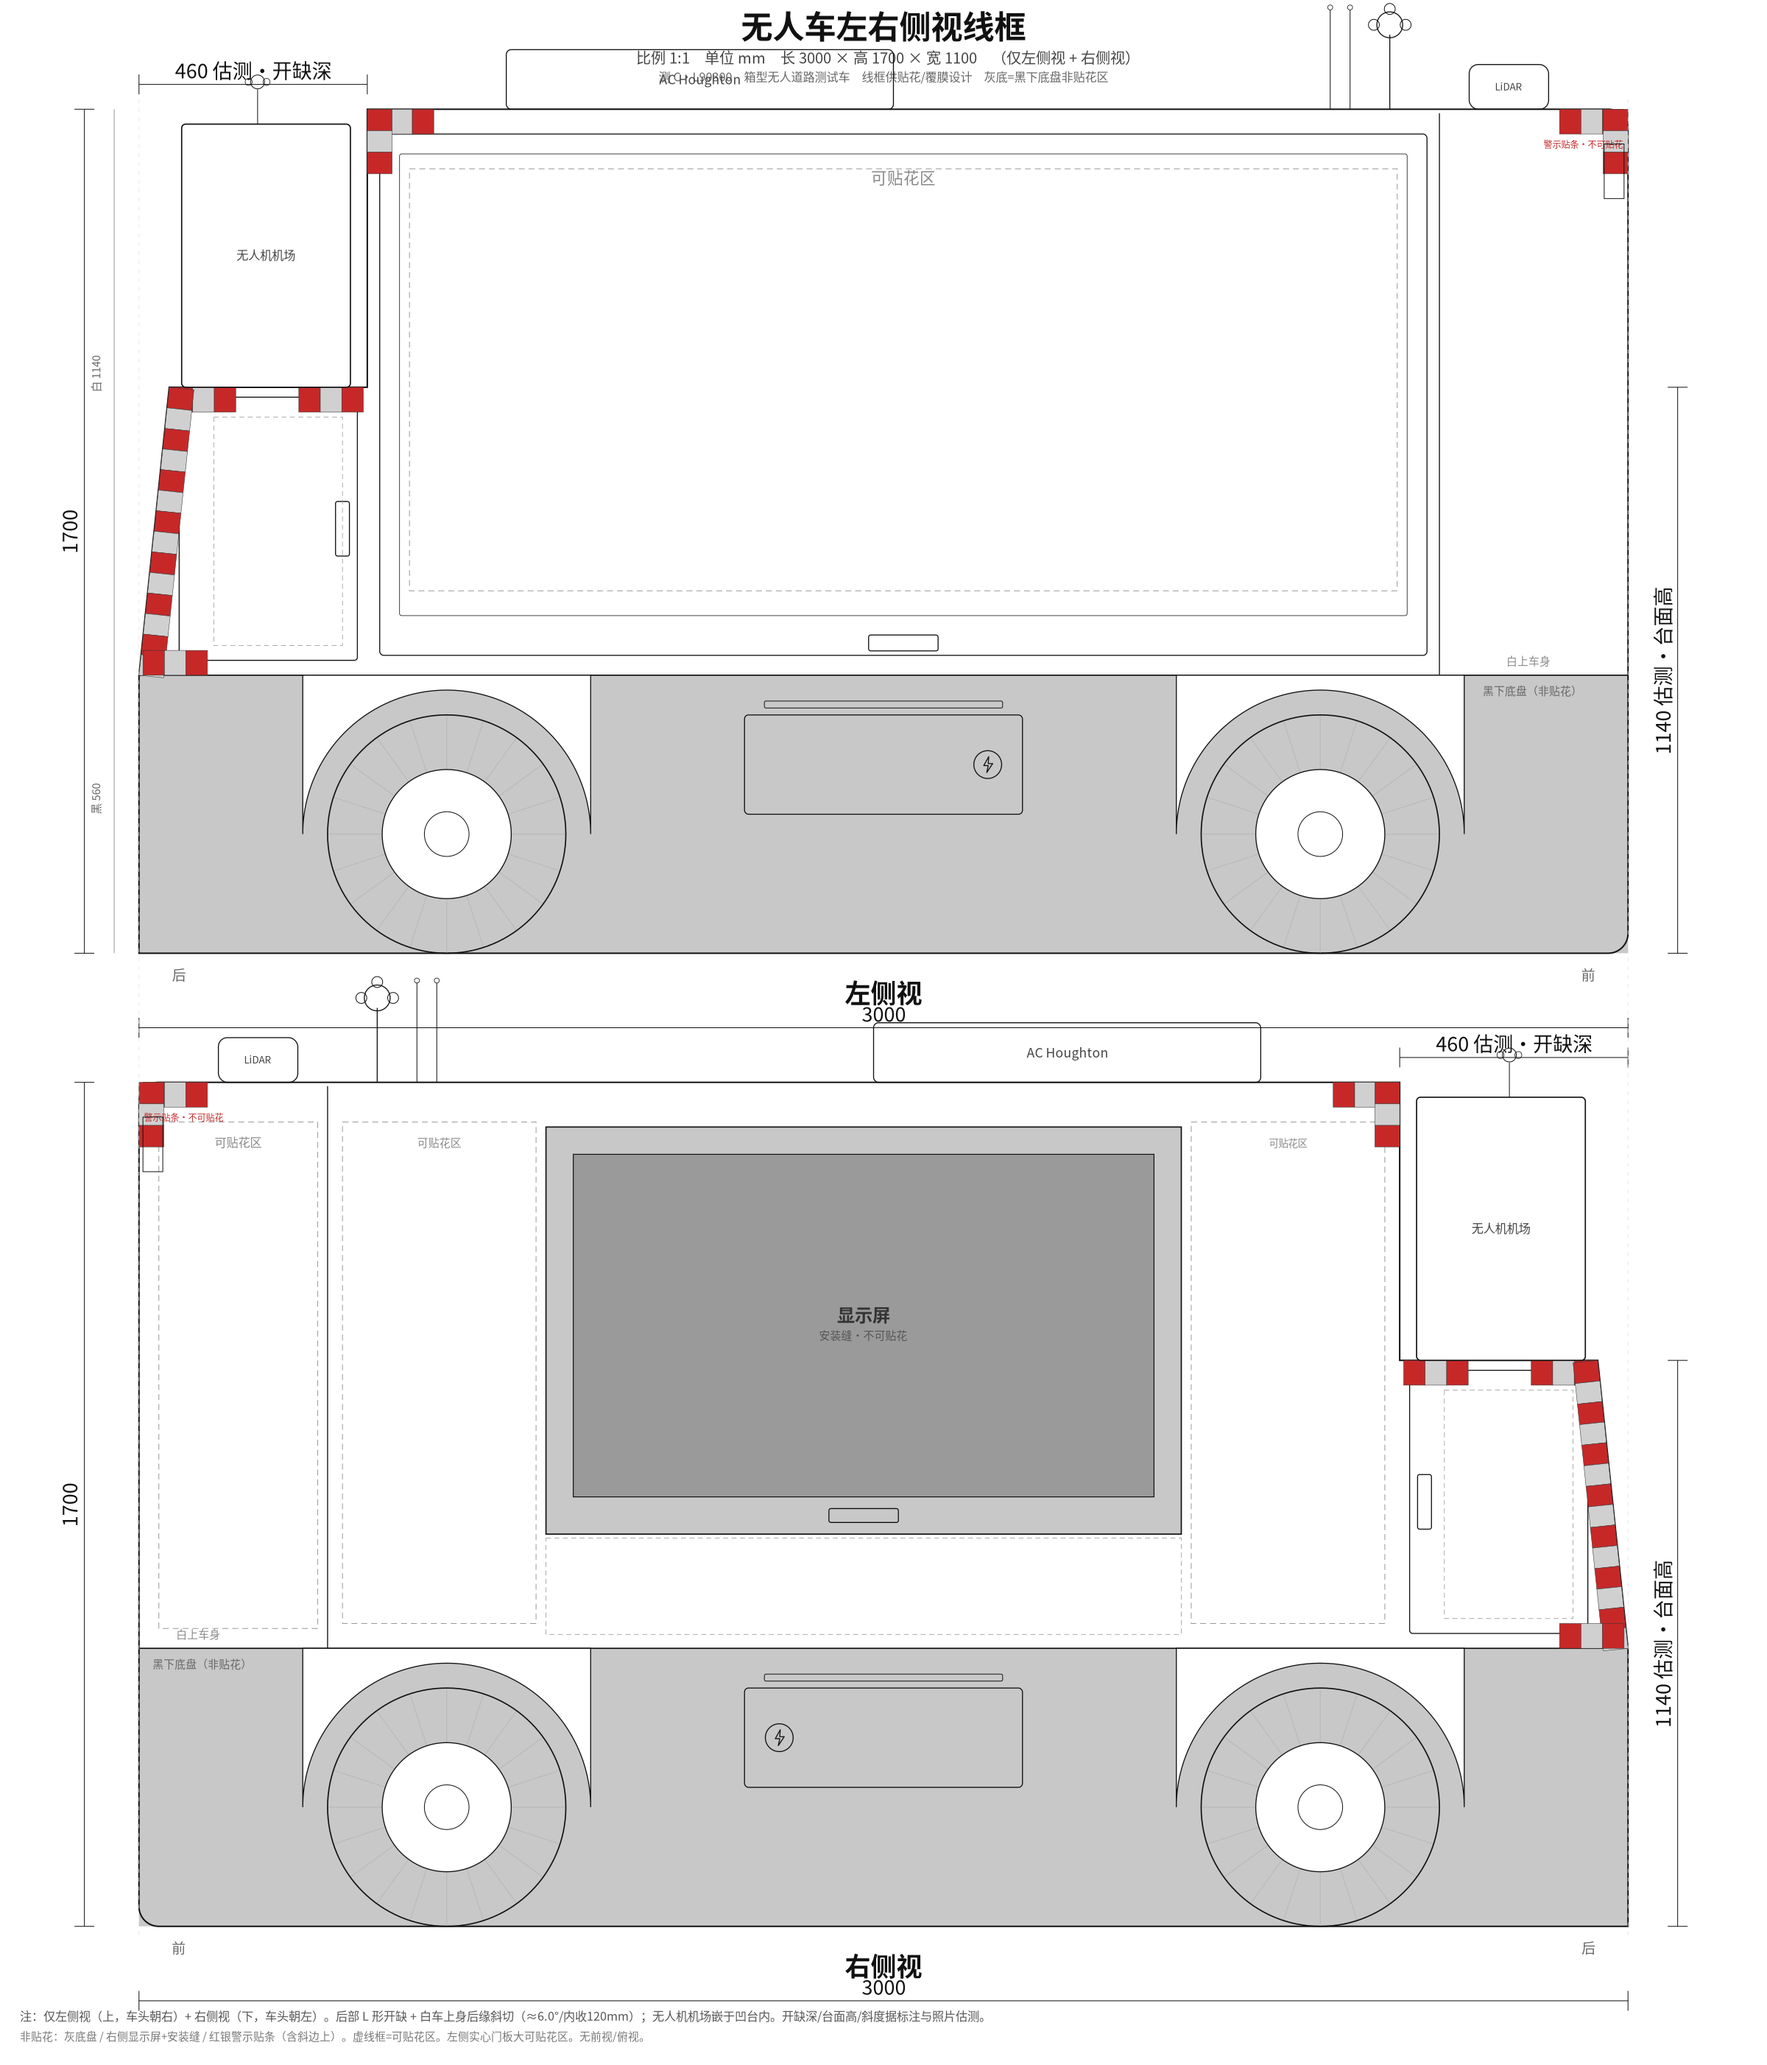
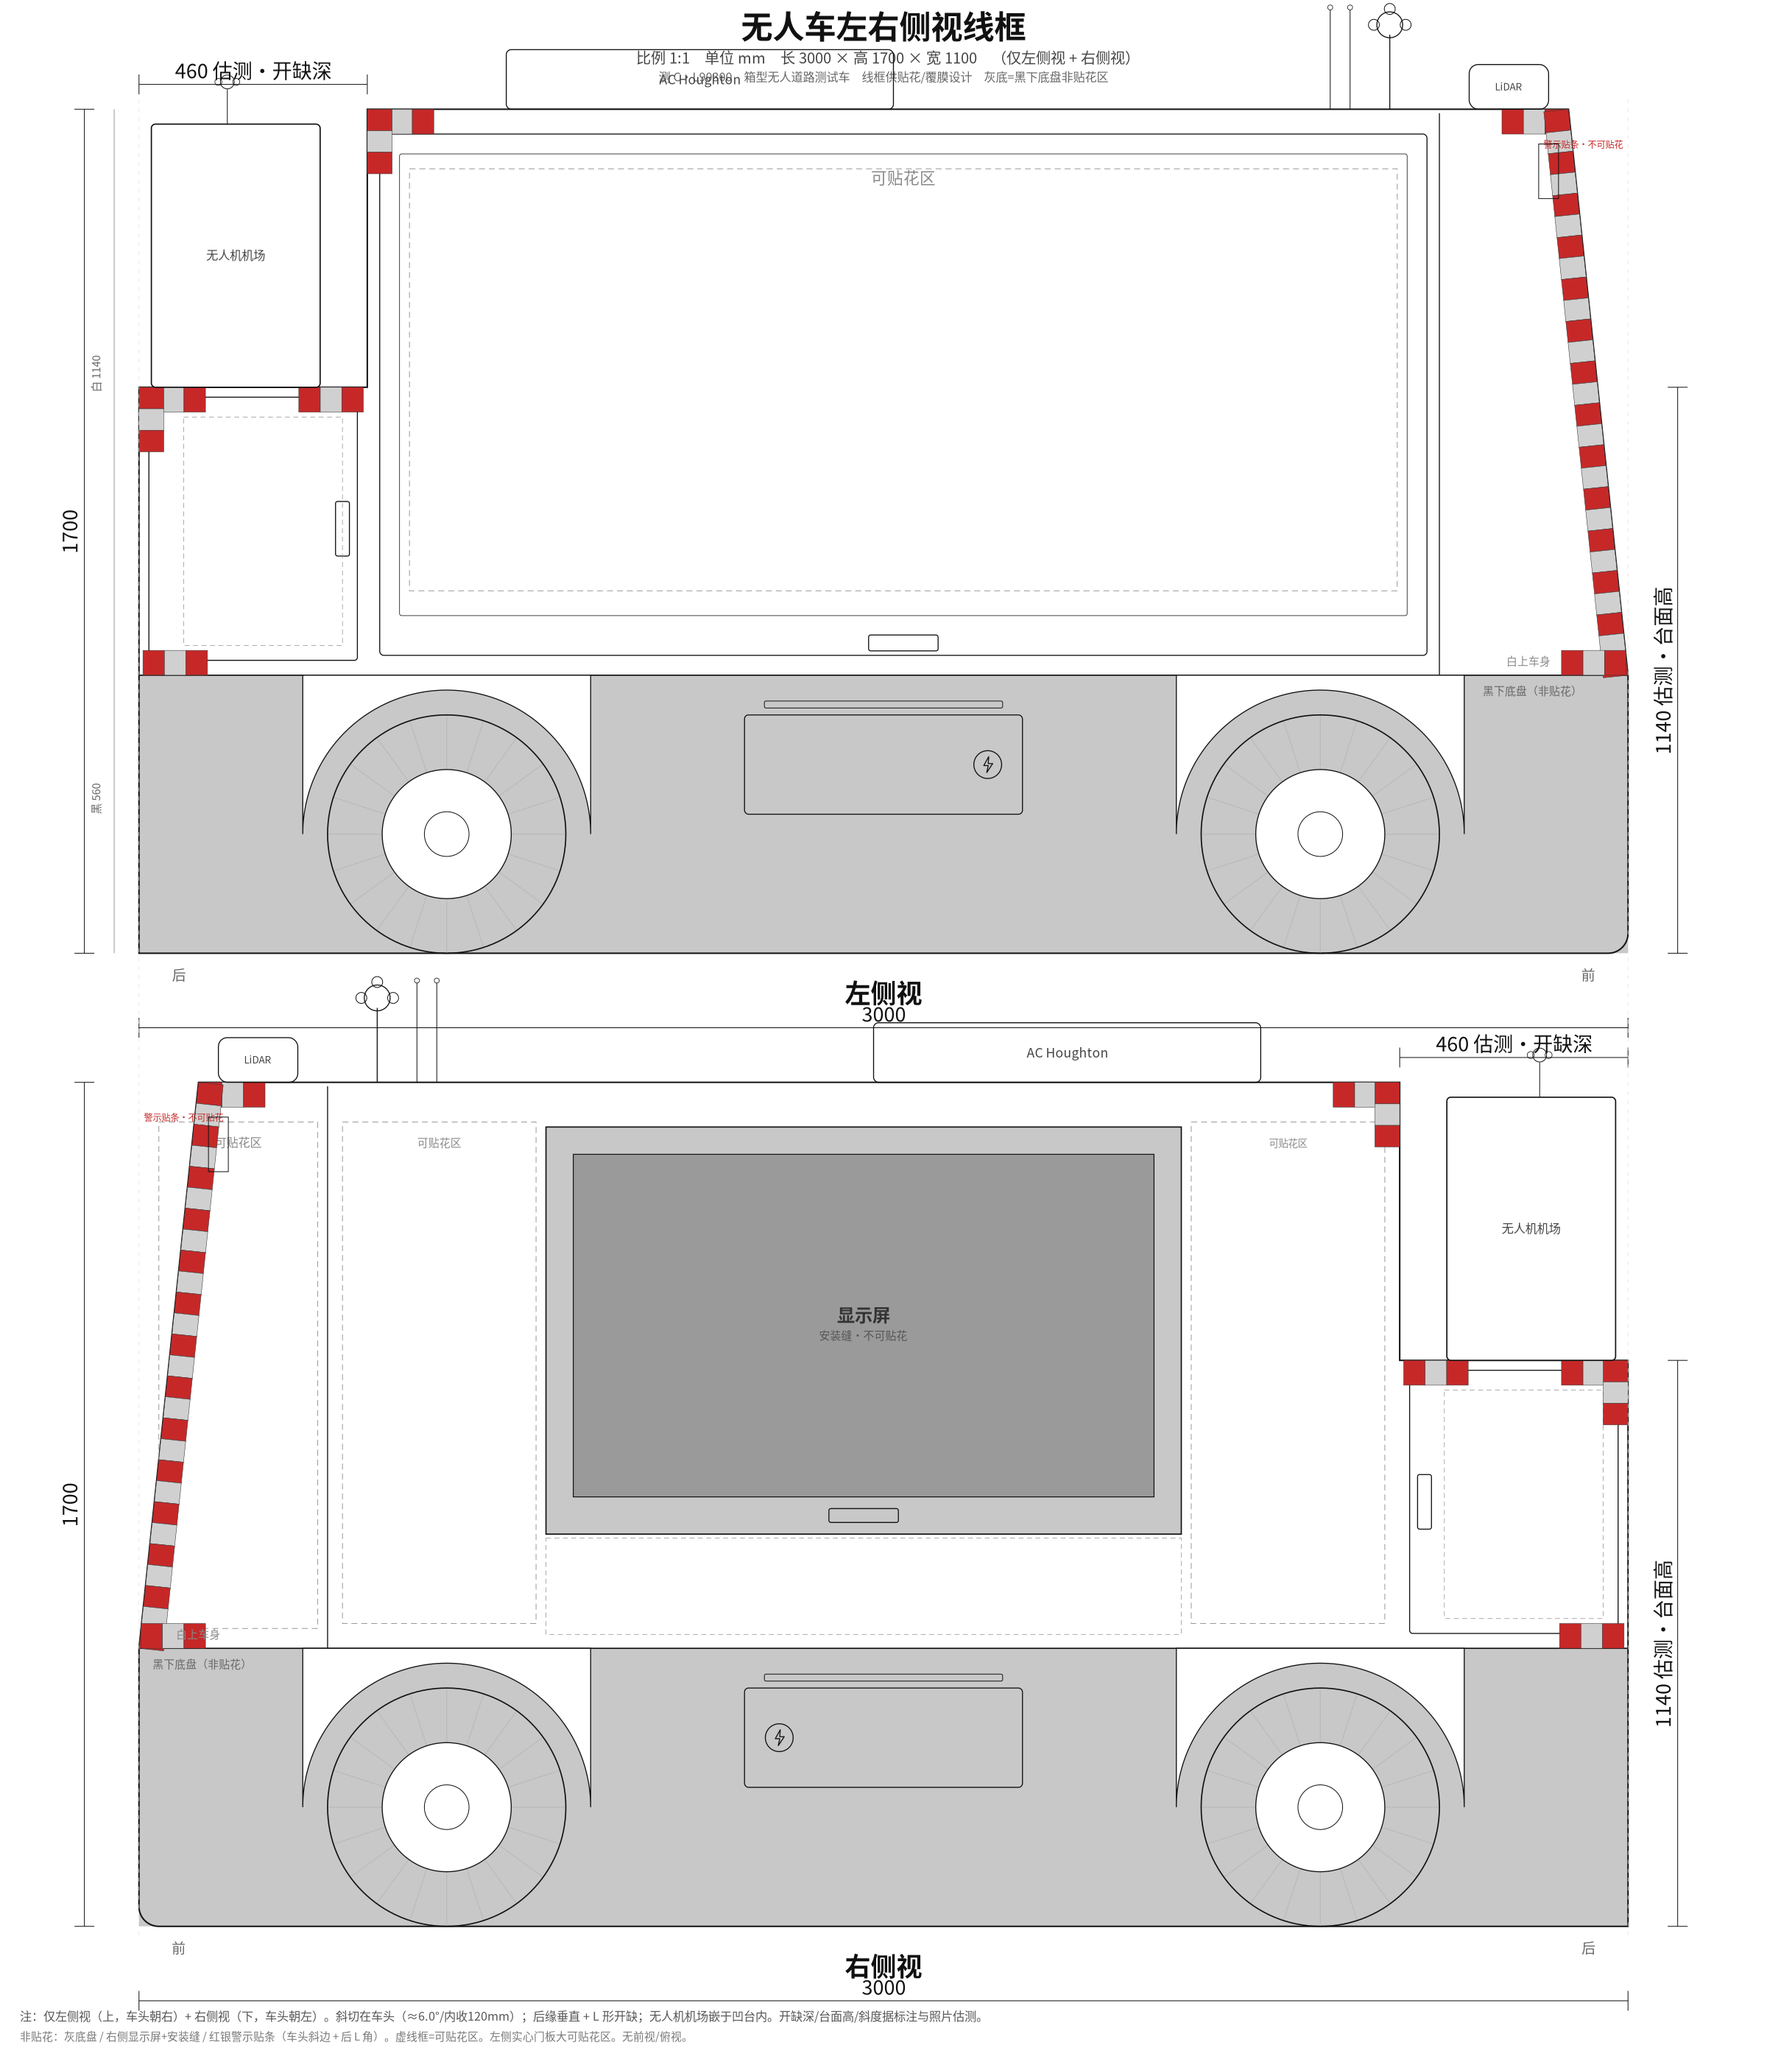
Move body slant to front; keep rear vertical
Correct reversed purple-outline interpretation: 斜切在车头.

diff --git a/index.html b/index.html
@@ -49,7 +49,7 @@
       <ol>
         <li>优先使用虚线「可贴花区」（左侧为主门板；右侧为屏幕周围残留白身）；后舱门虚线框可作次要参考。</li>
         <li>不可贴花：<strong>灰填充黑下底盘</strong>、<strong>右侧显示屏+安装缝</strong>、<strong>红银警示贴条</strong>、门把手、充电口、传感器、轮拱。</li>
-        <li>后部为 L 开缺（深≈460 mm）+ 白车上身后缘斜切（≈6°/内收120 mm）；设备箱嵌于凹台内、顶面近乎齐主车顶。开缺深/台面高/斜度/屏幕尺寸/贴条宽≈50 mm 为标注与照片估测，现场复核为准。</li>
+        <li>斜切在车头（≈6°/内收120 mm）；后缘垂直 + L 开缺（深≈460 mm）；设备箱嵌于凹台内、顶面近乎齐主车顶。开缺深/台面高/斜度/屏幕尺寸/贴条宽≈50 mm 为标注与照片估测，现场复核为准。</li>
       </ol>
     </section>
   </main>
